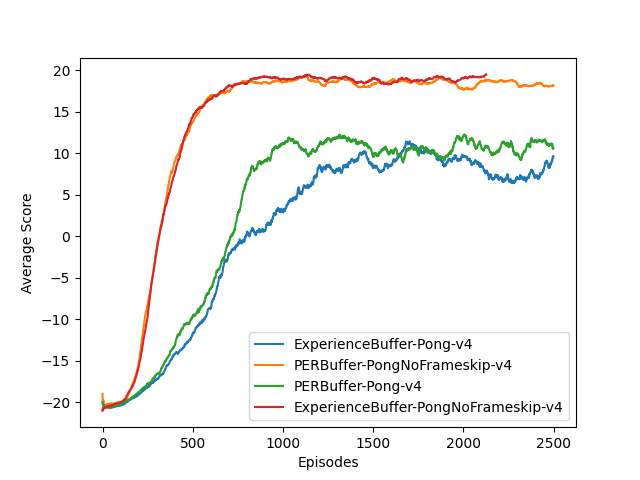
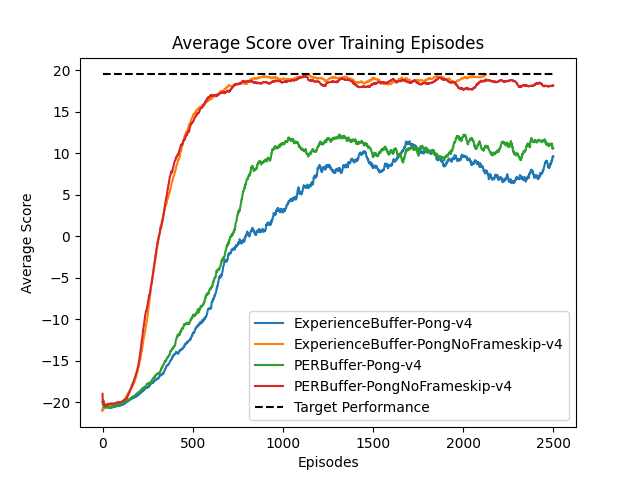
Updated plot and plotting code

diff --git a/plots.py b/plots.py
@@ -7,9 +7,11 @@ def plot_scores(data_dict):
     for key, data in data_dict.items():
         plt.plot(data, label=key)
 
+    plt.hlines(y=19.5, xmin=0, xmax=2500, linestyles='dashed', colors=['black'], label="Target Performance")
     plt.legend()
     plt.xlabel('Episodes')
     plt.ylabel('Average Score')
+    plt.title("Average Score over Training Episodes")
     plt.savefig(op.join('plots', 'figures', 'AverageScores.png'))
 
 def process_log(logfile):
@@ -24,7 +26,7 @@ def process_log(logfile):
 
 if __name__ == "__main__":
     data_dict = {}
-    for file in glob(op.join('logs', '*.txt')):
+    for file in sorted(glob(op.join('logs', '*.txt'))):
         with open(file, 'r') as f:
             data = process_log(f)
             if len(data) > 0:
